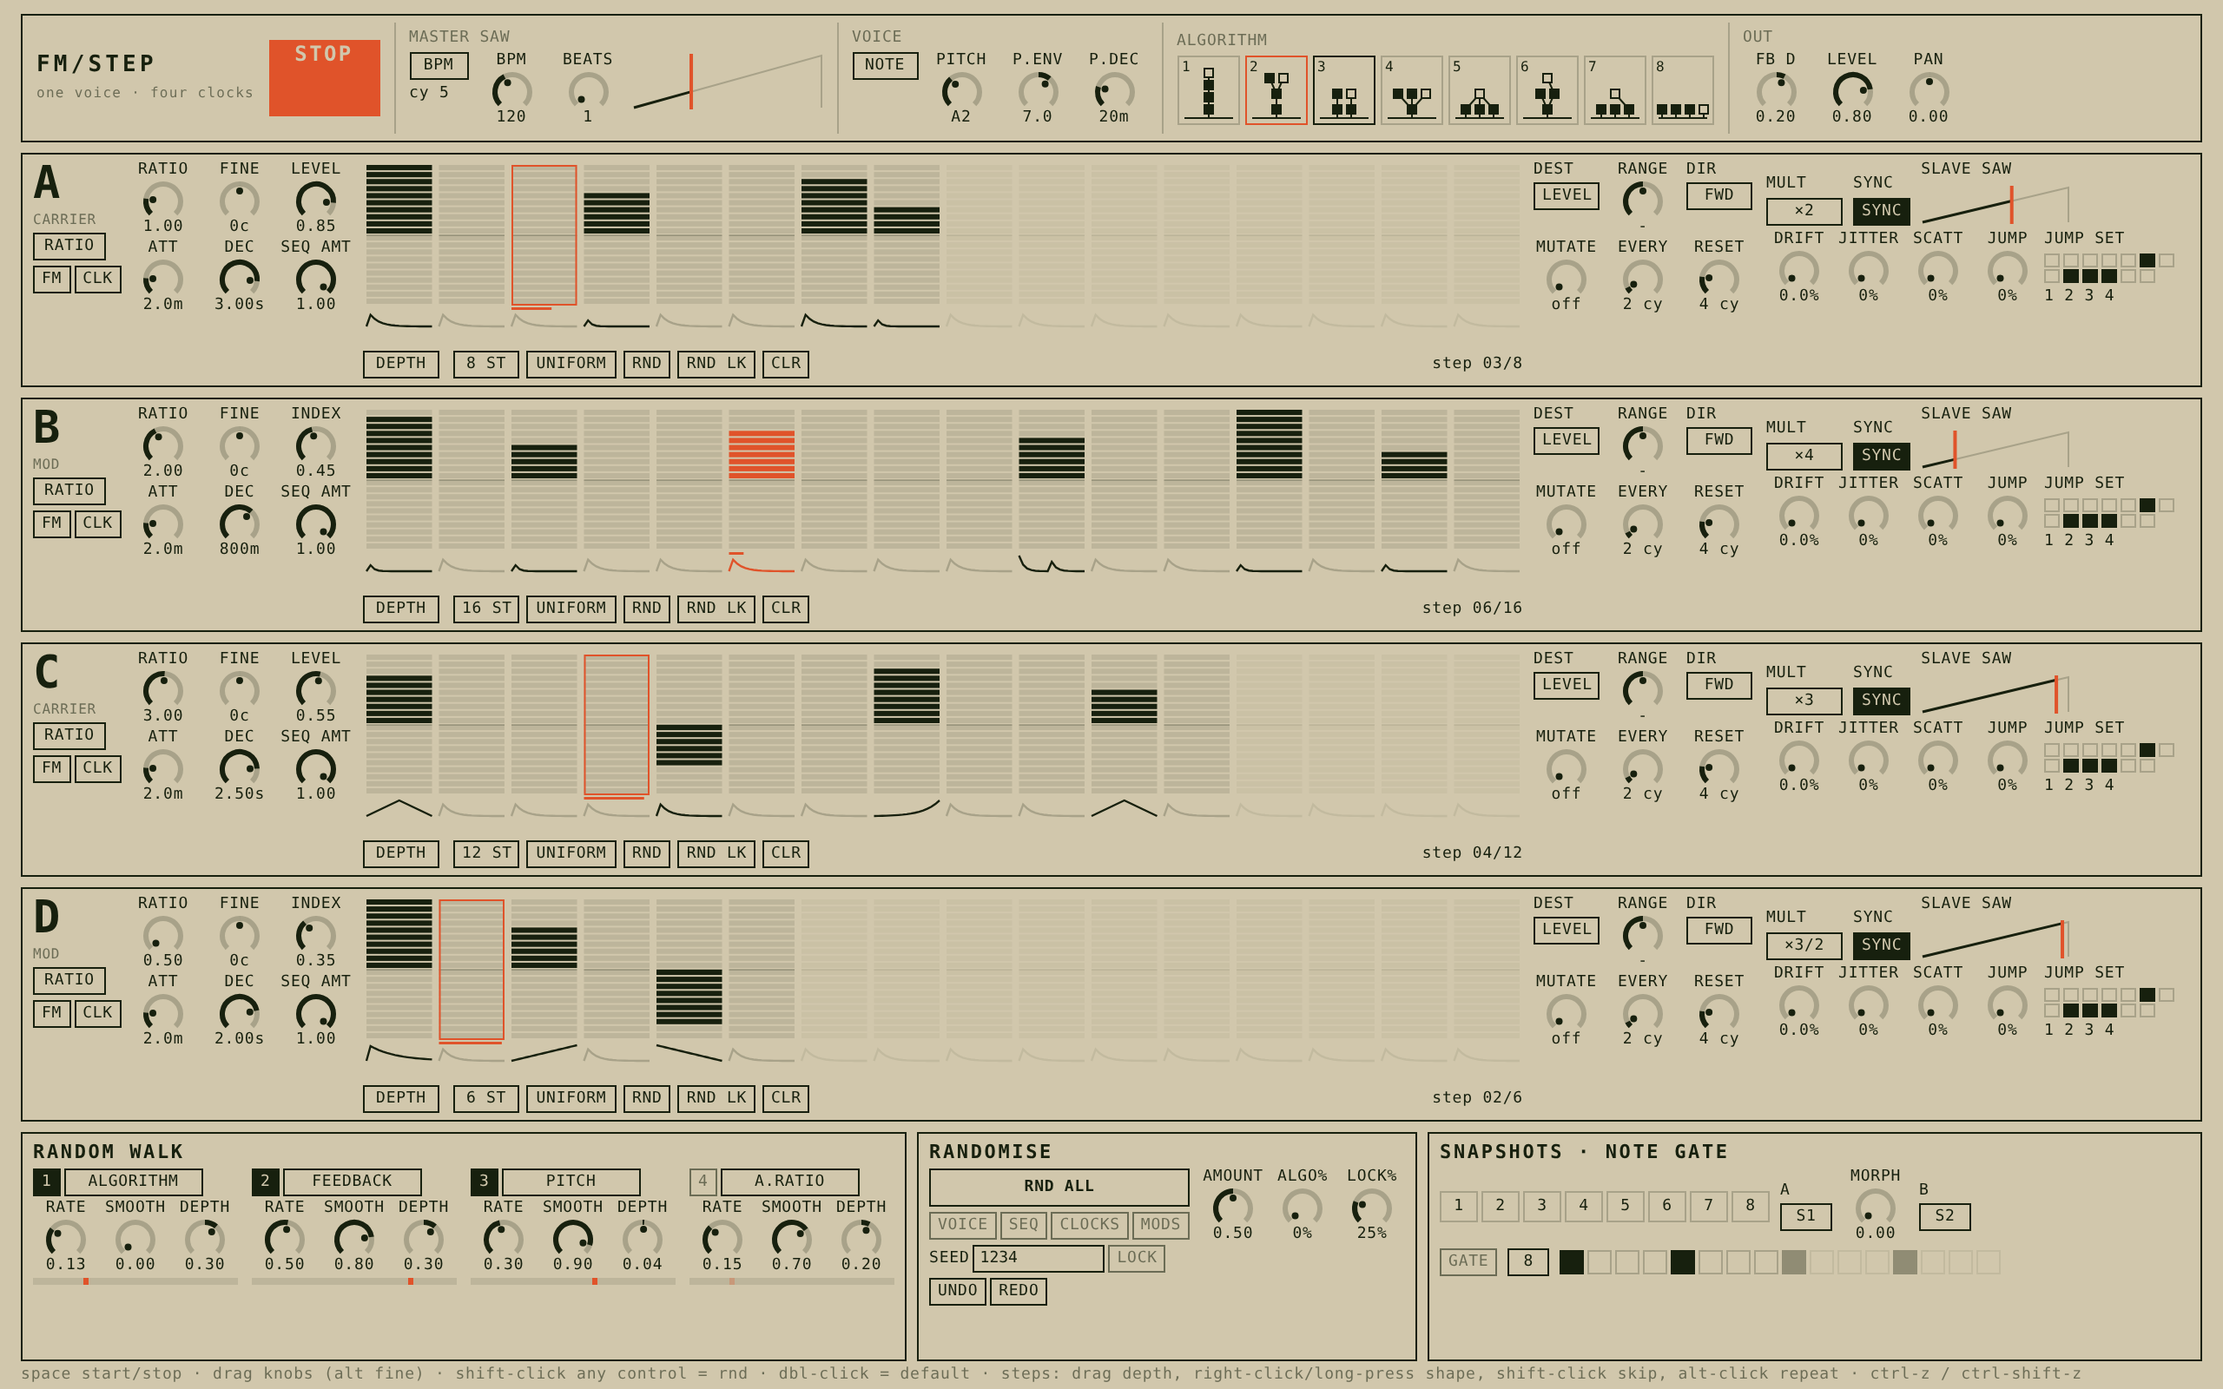
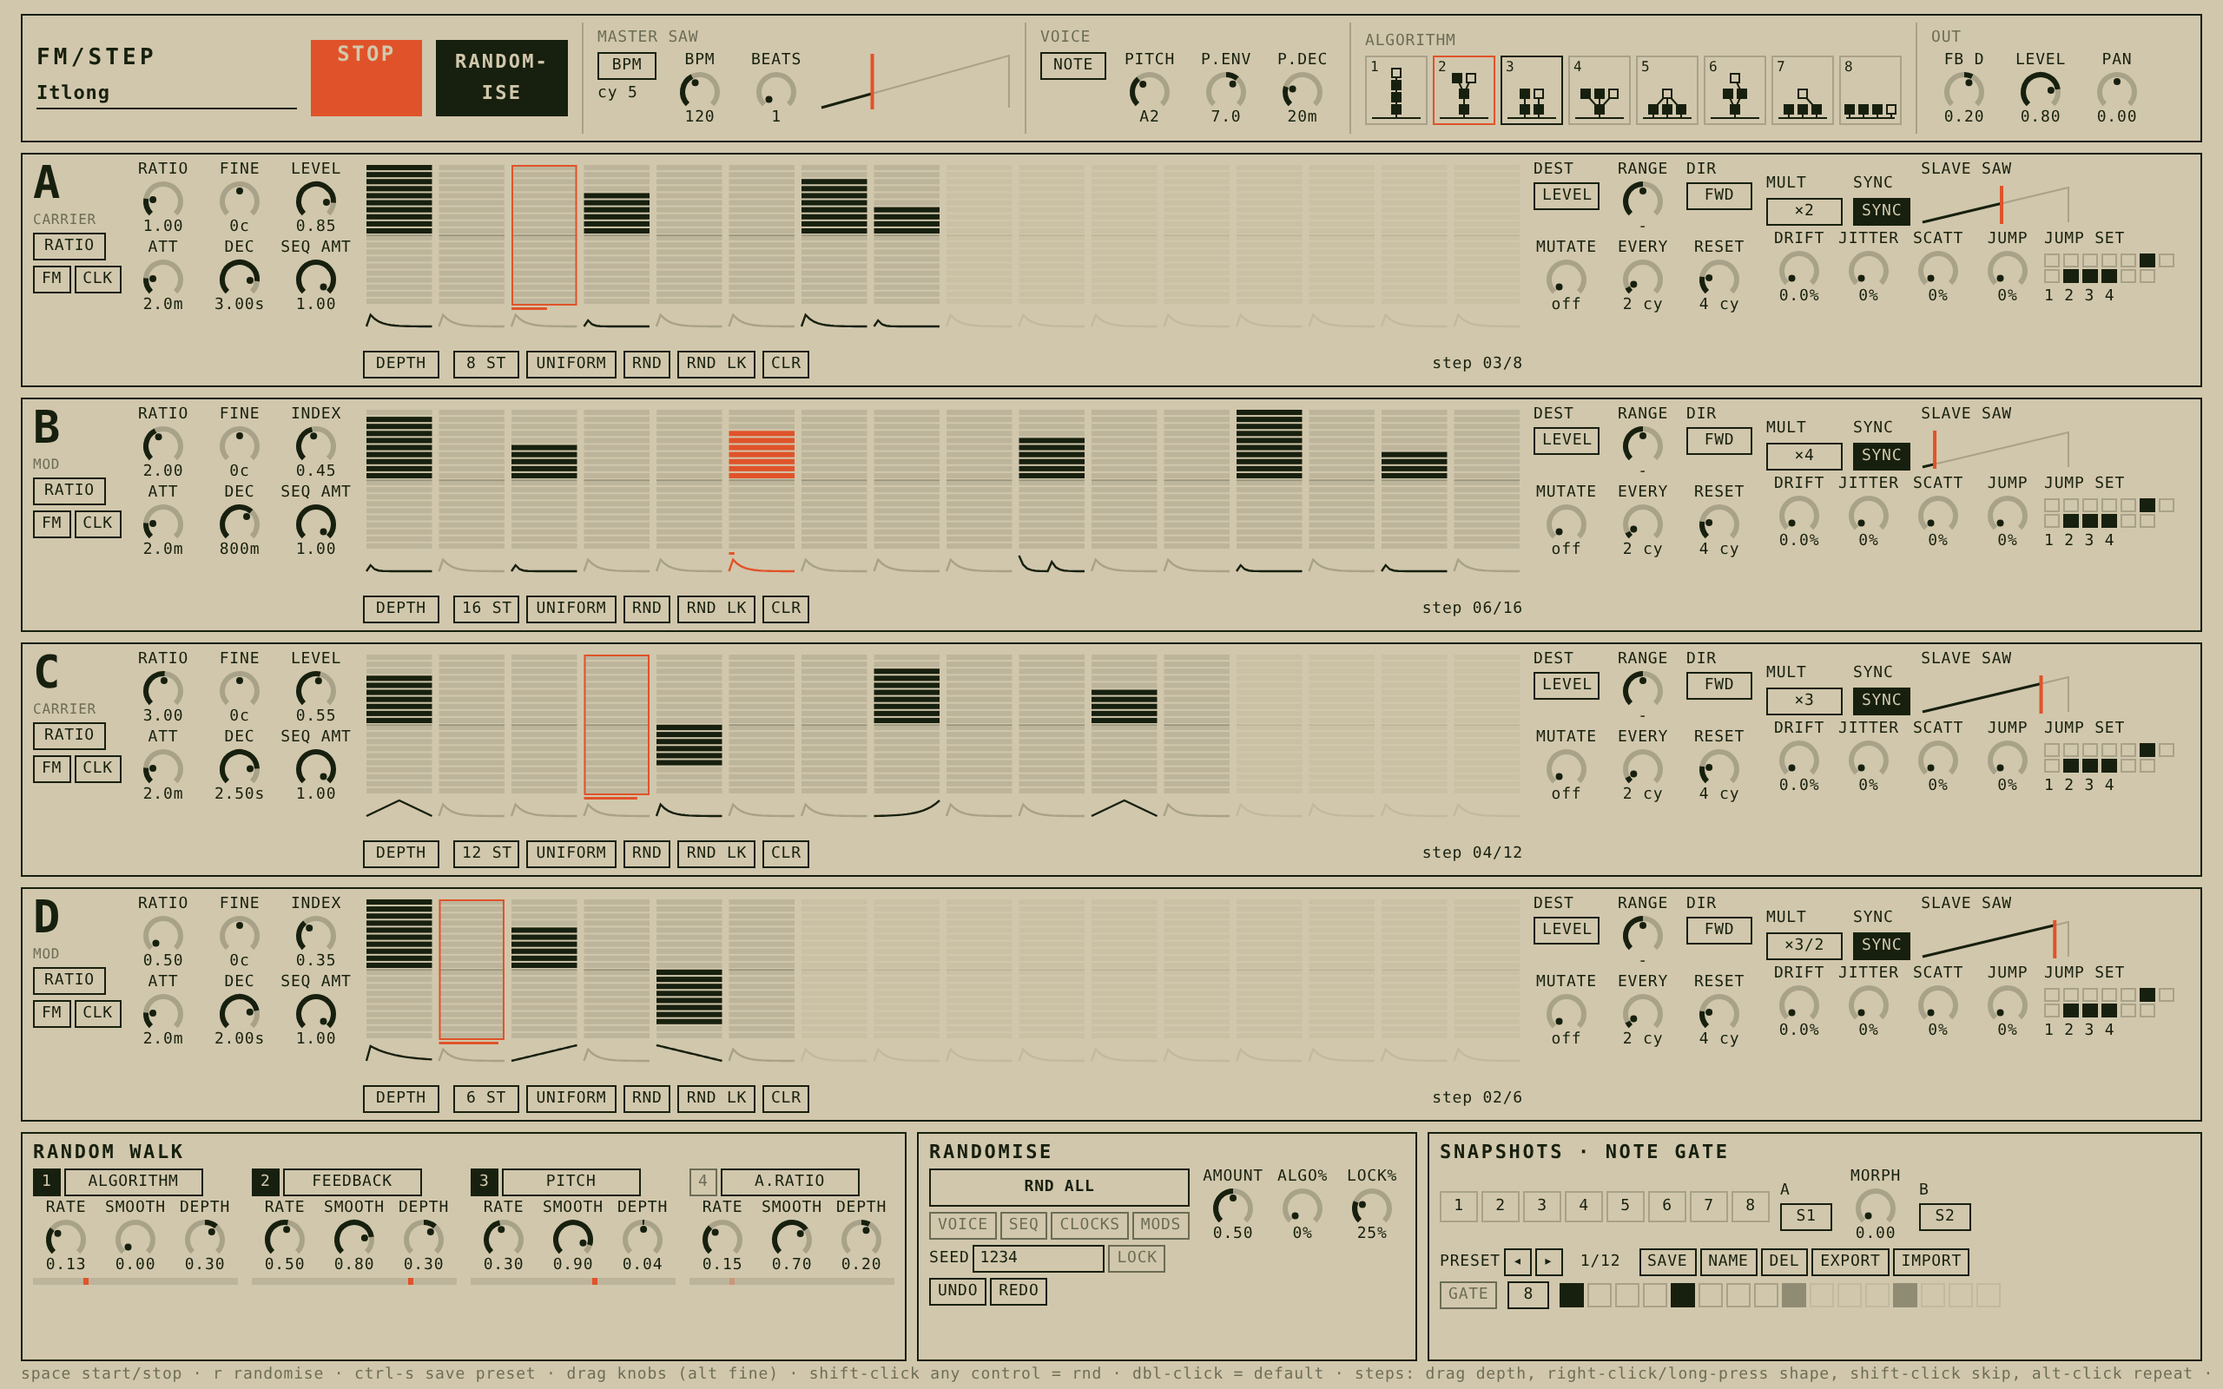
Add presets with generated names and a top-bar randomise button
Claude-Session: https://claude.ai/code/session_018ENZqT8uPXUg66LybqJ133

diff --git a/ui/app.js b/ui/app.js
@@ -6,6 +6,7 @@ import {
 import { SHAPES, shapeValue } from '../dsp/shapes.js';
 import { Rng, hashSeed } from '../dsp/rng.js';
 import { randomizePath, randomizeSection, fillSteps, rndLocks, rndAll, morphPatches, randomLockValue } from '../dsp/random.js';
+import { presetName } from './names.js';
 import { el, knob, selector, toggle, button, hiCanvas, toNorm, fromNorm } from './widgets.js';
 
 const C = { ink: '#17200e', spot: '#e0532a', dim: 'rgba(23,32,14,0.22)', faint: 'rgba(23,32,14,0.10)', bg: '#d1c7ac', mid: 'rgba(23,32,14,0.55)' };
@@ -28,6 +29,8 @@ const ui = {
   snaps: (!fresh && store.get('snaps')) || new Array(8).fill(null),
   snapA: 0, snapB: 1, morph: 0,
   running: false, state: null, selected: null,
+  presets: (!fresh && store.get('presets')) || null,
+  presetIdx: -1, presetName: (!fresh && store.get('presetName')) || '', presetDirty: false,
 };
 const undoStack = [], redoStack = [];
 const refreshers = [];
@@ -53,6 +56,7 @@ function redo() {
 function refreshAll() { for (const f of refreshers) f(); }
 function changed(refresh = true) {
   patchDirty = true;
+  ui.presetDirty = true;
   if (refresh) refreshAll();
 }
 function uiRng() { return new Rng(hashSeed(patch.seed, 'ui', ui.rndCount++)); }
@@ -136,9 +140,19 @@ function group(parent, title) {
 
 // --- top bar ---
 const brand = el('div', 'brand', top, 'FM/STEP');
-el('small', null, brand, 'one voice · four clocks');
+const nameBox = el('input', 'pname', brand);
+nameBox.spellcheck = false;
+nameBox.title = 'preset name (type to rename, enter to save)';
+nameBox.addEventListener('keydown', (e) => { e.stopPropagation(); if (e.key === 'Enter') { savePreset(); nameBox.blur(); } });
+nameBox.addEventListener('input', () => { ui.presetName = nameBox.value; ui.presetDirty = true; refreshAll(); });
+ctx.register(() => {
+  if (document.activeElement !== nameBox) nameBox.value = ui.presetName;
+  nameBox.classList.toggle('dirty', ui.presetDirty);
+});
 const startBtn = button(top, 'START', startStop, 'space');
 startBtn.id = 'start';
+const bigRnd = button(top, 'RANDOM-\nISE', () => rndEverything(true), 'roll everything not locked, with a new name (R)');
+bigRnd.id = 'bigrnd';
 ctx.register(() => { startBtn.textContent = ui.running ? 'STOP' : 'START'; startBtn.classList.toggle('spot', ui.running); });
 el('div', 'sep', top);
 
@@ -460,8 +474,9 @@ function rndSteps(i) {
   fillSteps(patch.ops[i], patch.rnd.style, uiRng(), patch.rnd.amount < 0.05 ? 0 : Math.max(patch.rnd.amount, 0.999 * (patch.rnd.amount >= 0.5)));
   changed(true);
 }
-function rndEverything() {
+function rndEverything(rename) {
   pushUndo();
+  if (rename !== false) { ui.presetName = presetName(uiRng()); ui.presetDirty = true; ui.presetIdx = -1; }
   if (!ui.seedLocked) patch.seed = (Math.random() * 4294967296) >>> 0;
   rndAll(patch, ui.locks, patch.rnd.amount, new Rng(hashSeed(patch.seed, 'rndall')));
   changed(true);
@@ -489,7 +504,7 @@ const rndP = el('div', 'panel', bottom);
 el('div', 'title', rndP, 'randomise');
 const rr1 = el('div', 'row', rndP);
 const rcol = el('div', 'col', rr1);
-const rall = button(rcol, 'RND ALL', () => rndEverything(), 'roll everything not locked');
+const rall = button(rcol, 'RND ALL', () => rndEverything(true), 'roll everything not locked');
 rall.style.height = '22px'; rall.style.lineHeight = '20px'; rall.style.fontWeight = '700';
 const lockRow = el('div', 'row', rcol); lockRow.style.gap = '2px';
 for (const sec of ['voice', 'seq', 'clocks', 'mods']) {
@@ -545,6 +560,21 @@ function applyMorph() {
   patch = morphPatches(a, b, ui.morph);
   patchDirty = true;
 }
+// presets
+const pr = el('div', 'row', snapP); pr.style.alignItems = 'center'; pr.style.gap = '2px';
+el('div', 'lbl', pr, 'preset');
+button(pr, '◂', () => stepPreset(-1), 'previous preset');
+button(pr, '▸', () => stepPreset(1), 'next preset');
+const pcount = el('div', 'val', pr, '');
+pcount.style.width = '40px'; pcount.style.textAlign = 'center';
+button(pr, 'save', () => savePreset(), 'save under the current name (overwrites a preset of the same name)');
+button(pr, 'name', () => { ui.presetName = presetName(uiRng()); ui.presetDirty = true; refreshAll(); }, 'generate a new name');
+button(pr, 'del', () => deletePreset(), 'delete the current preset');
+button(pr, 'export', () => exportPresets(), 'download all presets as JSON');
+button(pr, 'import', () => importPresets(), 'load presets from a JSON file');
+ctx.register(() => {
+  pcount.textContent = ui.presetIdx >= 0 ? `${ui.presetIdx + 1}/${ui.presets.length}` : `-/${ui.presets.length}`;
+});
 const gr = el('div', 'row', snapP); gr.style.alignItems = 'center';
 toggle(ctx, gr, { path: 'clock.gateOn', text: 'gate', title: 'retrigger notes from the gate row instead of every master wrap' });
 selector(ctx, gr, { path: 'clock.gateLen', labels: Array.from({ length: 16 }, (_, k) => `${k + 1}`), values: Array.from({ length: 16 }, (_, k) => k + 1), width: 24 });
@@ -560,6 +590,93 @@ const gateEls = Array.from({ length: MAX_STEPS }, (_, k) => {
   return g;
 });
 ctx.register(() => gateEls.forEach((g, k) => { g.classList.toggle('on', !!patch.clock.gate[k]); g.classList.toggle('off-len', k >= patch.clock.gateLen); }));
+
+// ---------------- presets ----------------
+function factoryPresets() {
+  const out = [];
+  const r = new Rng(hashSeed(2026, 'factory'));
+  out.push({ name: presetName(r), patch: defaultPatch() });
+  for (let k = 0; k < 11; k++) {
+    const p = defaultPatch();
+    p.seed = (r.next() * 4294967296) >>> 0;
+    rndAll(p, { mods: k % 3 === 0 }, 1, new Rng(hashSeed(p.seed, 'rndall')));
+    if (k % 2) for (const op of p.ops) { op.mutateK = 1 + (k % 3); op.mutateEvery = 2; }
+    out.push({ name: presetName(r), patch: p });
+  }
+  return out;
+}
+if (!Array.isArray(ui.presets) || !ui.presets.length) { ui.presets = factoryPresets(); store.set('presets', ui.presets); }
+if (!ui.presetName) { ui.presetIdx = 0; ui.presetName = ui.presets[0].name; patch = clonePatch(ui.presets[0].patch); }
+else ui.presetIdx = ui.presets.findIndex((q) => q.name === ui.presetName);
+
+function savePreset() {
+  const name = (ui.presetName || '').trim() || presetName(uiRng());
+  ui.presetName = name;
+  const at = ui.presets.findIndex((q) => q.name === name);
+  const entry = { name, patch: clonePatch(patch) };
+  if (at >= 0) { ui.presets[at] = entry; ui.presetIdx = at; } else { ui.presets.push(entry); ui.presetIdx = ui.presets.length - 1; }
+  ui.presetDirty = false;
+  store.set('presets', ui.presets); store.set('presetName', name);
+  flash('saved ' + name);
+  refreshAll();
+}
+function loadPreset(k) {
+  if (!ui.presets.length) return;
+  k = (k + ui.presets.length) % ui.presets.length;
+  pushUndo();
+  ui.presetIdx = k; ui.presetName = ui.presets[k].name; ui.presetDirty = false;
+  patch = clonePatch(ui.presets[k].patch);
+  store.set('presetName', ui.presetName);
+  changed(false);
+  ui.presetDirty = false;
+  refreshAll();
+}
+function stepPreset(d) { loadPreset(ui.presetIdx < 0 ? (d > 0 ? 0 : -1) : ui.presetIdx + d); }
+function deletePreset() {
+  const k = ui.presetIdx;
+  if (k < 0) return;
+  ui.presets.splice(k, 1);
+  store.set('presets', ui.presets);
+  ui.presetIdx = -1; ui.presetDirty = true;
+  flash('deleted');
+  refreshAll();
+}
+function exportPresets() {
+  const blob = new Blob([JSON.stringify({ format: 'fm-step-presets', version: 1, presets: ui.presets }, null, 1)], { type: 'application/json' });
+  const a = document.createElement('a');
+  a.href = URL.createObjectURL(blob); a.download = 'fm-step-presets.json';
+  document.body.appendChild(a); a.click(); a.remove();
+  setTimeout(() => URL.revokeObjectURL(a.href), 2000);
+}
+function importPresets() {
+  const inp = document.createElement('input');
+  inp.type = 'file'; inp.accept = '.json,application/json';
+  inp.onchange = async () => {
+    try {
+      const data = JSON.parse(await inp.files[0].text());
+      const list = Array.isArray(data) ? data : data.presets;
+      let n = 0;
+      for (const q of list || []) {
+        if (!q || typeof q.name !== 'string' || !q.patch || !Array.isArray(q.patch.ops)) continue;
+        const at = ui.presets.findIndex((x) => x.name === q.name);
+        if (at >= 0) ui.presets[at] = q; else ui.presets.push(q);
+        n++;
+      }
+      store.set('presets', ui.presets);
+      flash(`imported ${n}`);
+      refreshAll();
+    } catch { flash('import failed'); }
+  };
+  inp.click();
+}
+let flashTimer = 0;
+function flash(msg) {
+  const h = document.getElementById('hint');
+  if (!h._orig) h._orig = h.textContent;
+  h.textContent = msg; h.style.color = C.ink;
+  clearTimeout(flashTimer);
+  flashTimer = setTimeout(() => { h.textContent = h._orig; h.style.color = ''; }, 1600);
+}
 
 // ---------------- drawing ----------------
 function drawSaw(c, phase, live) {
@@ -690,6 +807,8 @@ function frame() {
 window.addEventListener('keydown', (e) => {
   if (e.target instanceof HTMLInputElement) return;
   if (e.code === 'Space') { e.preventDefault(); startStop(); }
+  else if (e.key === 'r' && !e.ctrlKey && !e.metaKey) rndEverything(true);
+  else if ((e.ctrlKey || e.metaKey) && e.key.toLowerCase() === 's') { e.preventDefault(); savePreset(); }
   else if ((e.ctrlKey || e.metaKey) && e.key.toLowerCase() === 'z') { e.preventDefault(); if (e.shiftKey) redo(); else undo(); }
   else if ((e.ctrlKey || e.metaKey) && e.key.toLowerCase() === 'y') { e.preventDefault(); redo(); }
 });

diff --git a/ui/names.js b/ui/names.js
@@ -1,0 +1,54 @@
+// Preset name generator: splices small chunks of words from themed lists. No DOM.
+export const WORDS = {
+  greece: ['Athena', 'Sparta', 'Delphi', 'Achilles', 'Olympus', 'Corinth', 'Hermes', 'Pericles', 'Mycenae', 'Theseus',
+    'Kronos', 'Argos', 'Thebes', 'Odysseus', 'Agora', 'Hoplite', 'Medusa', 'Apollo', 'Knossos', 'Ithaca', 'Socrates',
+    'Amphora', 'Trireme', 'Minotaur', 'Persephone', 'Parthenon', 'Electra', 'Icarus'],
+  chinese: ['Wonton', 'Dumpling', 'Chowmein', 'Dimsum', 'Bao', 'Kungpao', 'Hoisin', 'Szechuan', 'Mapo', 'Siumai',
+    'Lomein', 'Charsiu', 'Congee', 'Jiaozi', 'Xiaolong', 'Bokchoy', 'Fooyung', 'Wokhei', 'Tofu', 'Hargow', 'Chashu',
+    'Eggroll', 'Wuxi', 'Dandan', 'Zongzi', 'Mooncake'],
+  mountains: ['Everest', 'Kilimanjaro', 'Matterhorn', 'Denali', 'Eiger', 'Annapurna', 'Fuji', 'Elbrus', 'Aconcagua',
+    'Olympus', 'Kosciuszko', 'Snowdon', 'Ben Nevis', 'Rainier', 'Makalu', 'Lhotse', 'Nanga', 'Tabor', 'Etna',
+    'Vesuvius', 'Helvellyn', 'Scafell', 'Cotopaxi', 'Toubkal', 'Triglav', 'Kailash'],
+  villages: ['Bourton', 'Wetwang', 'Giggleswick', 'Snitterfield', 'Bibury', 'Lacock', 'Mousehole', 'Clovelly', 'Grasmere',
+    'Polperro', 'Castleton', 'Ombersley', 'Nether Wallop', 'Great Snoring', 'Barton', 'Pity Me', 'Wigglesworth',
+    'Ugley', 'Didling', 'Bletchley', 'Muker', 'Thwaite', 'Goathland', 'Haworth', 'Biggin', 'Slaggyford', 'Whitwell'],
+  astronomy: ['Nebula', 'Quasar', 'Pulsar', 'Perihelion', 'Aphelion', 'Zenith', 'Nadir', 'Parallax', 'Corona', 'Umbra',
+    'Penumbra', 'Albedo', 'Azimuth', 'Syzygy', 'Magnetar', 'Redshift', 'Sirius', 'Vega', 'Betelgeuse', 'Orion',
+    'Andromeda', 'Kuiper', 'Oort', 'Ecliptic', 'Equinox', 'Solstice', 'Meteor', 'Nova', 'Halo', 'Libration'],
+};
+const LISTS = Object.keys(WORDS);
+
+// split a word into vowel-anchored chunks: "Giggleswick" -> gi, ggle, swi, ck
+export function chunks(word) {
+  const w = word.toLowerCase().replace(/[^a-z]/g, '');
+  const parts = w.match(/[^aeiouy]*[aeiouy]+(?:[^aeiouy](?![aeiouy]))?/g) || [w];
+  const used = parts.join('').length;
+  if (used < w.length) parts[parts.length - 1] += w.slice(used);
+  return parts;
+}
+
+function pick(rng, a) { return a[Math.floor(rng.next() * a.length)]; }
+function cap(s) { return s.charAt(0).toUpperCase() + s.slice(1); }
+
+// One spliced word: head chunks of one word + tail chunks of another (different list).
+function splice(rng) {
+  const l1 = pick(rng, LISTS);
+  let l2 = pick(rng, LISTS);
+  if (l2 === l1) l2 = LISTS[(LISTS.indexOf(l1) + 1 + Math.floor(rng.next() * 4)) % LISTS.length];
+  const a = chunks(pick(rng, WORDS[l1])), b = chunks(pick(rng, WORDS[l2]));
+  const nh = Math.max(1, Math.min(a.length - (a.length > 1 ? 1 : 0), 1 + Math.floor(rng.next() * 2)));
+  const nt = Math.max(1, Math.min(b.length, 1 + Math.floor(rng.next() * 2)));
+  let s = a.slice(0, nh).join('') + b.slice(b.length - nt).join('');
+  if (s.length < 4) s += pick(rng, chunks(pick(rng, WORDS[pick(rng, LISTS)])));
+  return cap(s.slice(0, 12));
+}
+
+// rng: anything with next() -> [0,1)
+export function presetName(rng) {
+  const r = rng.next();
+  if (r < 0.6) return splice(rng);
+  if (r < 0.85) return `${splice(rng)} ${splice(rng)}`;
+  // a spliced word next to a whole one
+  const whole = pick(rng, WORDS[pick(rng, LISTS)]);
+  return rng.next() < 0.5 ? `${splice(rng)} ${whole}` : `${whole} ${splice(rng)}`;
+}

diff --git a/ui/style.css b/ui/style.css
@@ -53,6 +53,13 @@ input.num:focus { border-color: var(--spot); }
 #top { display: flex; align-items: center; gap: 8px; border: 1px solid var(--ink); padding: 4px 8px; height: 74px; }
 #start { width: 64px; height: 44px; font-size: 12px; font-weight: 700; letter-spacing: 0.1em; }
 .brand { font-weight: 700; font-size: 13px; letter-spacing: 0.16em; line-height: 13px; }
+.pname { display: block; width: 150px; margin-top: 5px; height: 18px; border: 0; border-bottom: 1px solid var(--ink);
+  background: var(--bg); color: var(--ink); font: inherit; font-size: 11px; font-weight: 700; letter-spacing: 0.04em; padding: 0; outline: none; }
+.pname:focus { border-bottom-color: var(--spot); }
+.pname.dirty { font-style: italic; }
+#bigrnd { width: 76px; height: 44px; white-space: pre; line-height: 18px; padding-top: 3px; font-size: 11px; font-weight: 700;
+  letter-spacing: 0.1em; background: var(--ink); color: var(--bg); }
+#bigrnd:active { background: var(--spot); border-color: var(--spot); }
 .brand small { display: block; font-weight: 400; font-size: 8px; letter-spacing: 0.08em; color: var(--mid); margin-top: 3px; }
 canvas { display: block; }
 .algos { display: flex; gap: 3px; }

diff --git a/index.html b/index.html
@@ -12,7 +12,7 @@
   <main id="ops"></main>
   <footer id="bottom"></footer>
 </div>
-<div id="hint">space start/stop · drag knobs (alt fine) · shift-click any control = rnd · dbl-click = default · steps: drag depth, right-click/long-press shape, shift-click skip, alt-click repeat · ctrl-z / ctrl-shift-z</div>
+<div id="hint">space start/stop · r randomise · ctrl-s save preset · drag knobs (alt fine) · shift-click any control = rnd · dbl-click = default · steps: drag depth, right-click/long-press shape, shift-click skip, alt-click repeat · ctrl-z / ctrl-shift-z</div>
 <script type="module" src="ui/app.js"></script>
 </body>
 </html>

diff --git a/README.md b/README.md
@@ -17,6 +17,14 @@ with no DOM use, ready to port to C++/JUCE.
 - `worklet/processor.js`: AudioWorklet host, posts state about 60 times a second over the MessagePort
 - `ui/`: LCD interface
 
+## Presets and randomiser
+- RANDOMISE (top bar, or the R key) rolls everything not locked and gives the patch a new generated name.
+- Preset names are spliced from small chunks of words: ancient Greece, Chinese food, mountains,
+  English village names and astronomy (`ui/names.js`).
+- The name field in the top bar is editable; ctrl-s or SAVE stores the preset (same name overwrites).
+  The preset row has previous/next, new name, delete, export and import (JSON). Presets are kept in the
+  browser's local storage, so use export to back them up or move them. 12 factory presets ship on first run.
+
 ## Behaviour notes
 - Level destination: gain = (1 - amt) + amt x g, where g = depth x shape for positive steps,
   1 - |depth| x shape for negative steps (ducking), and 0 for empty or unfired steps.
